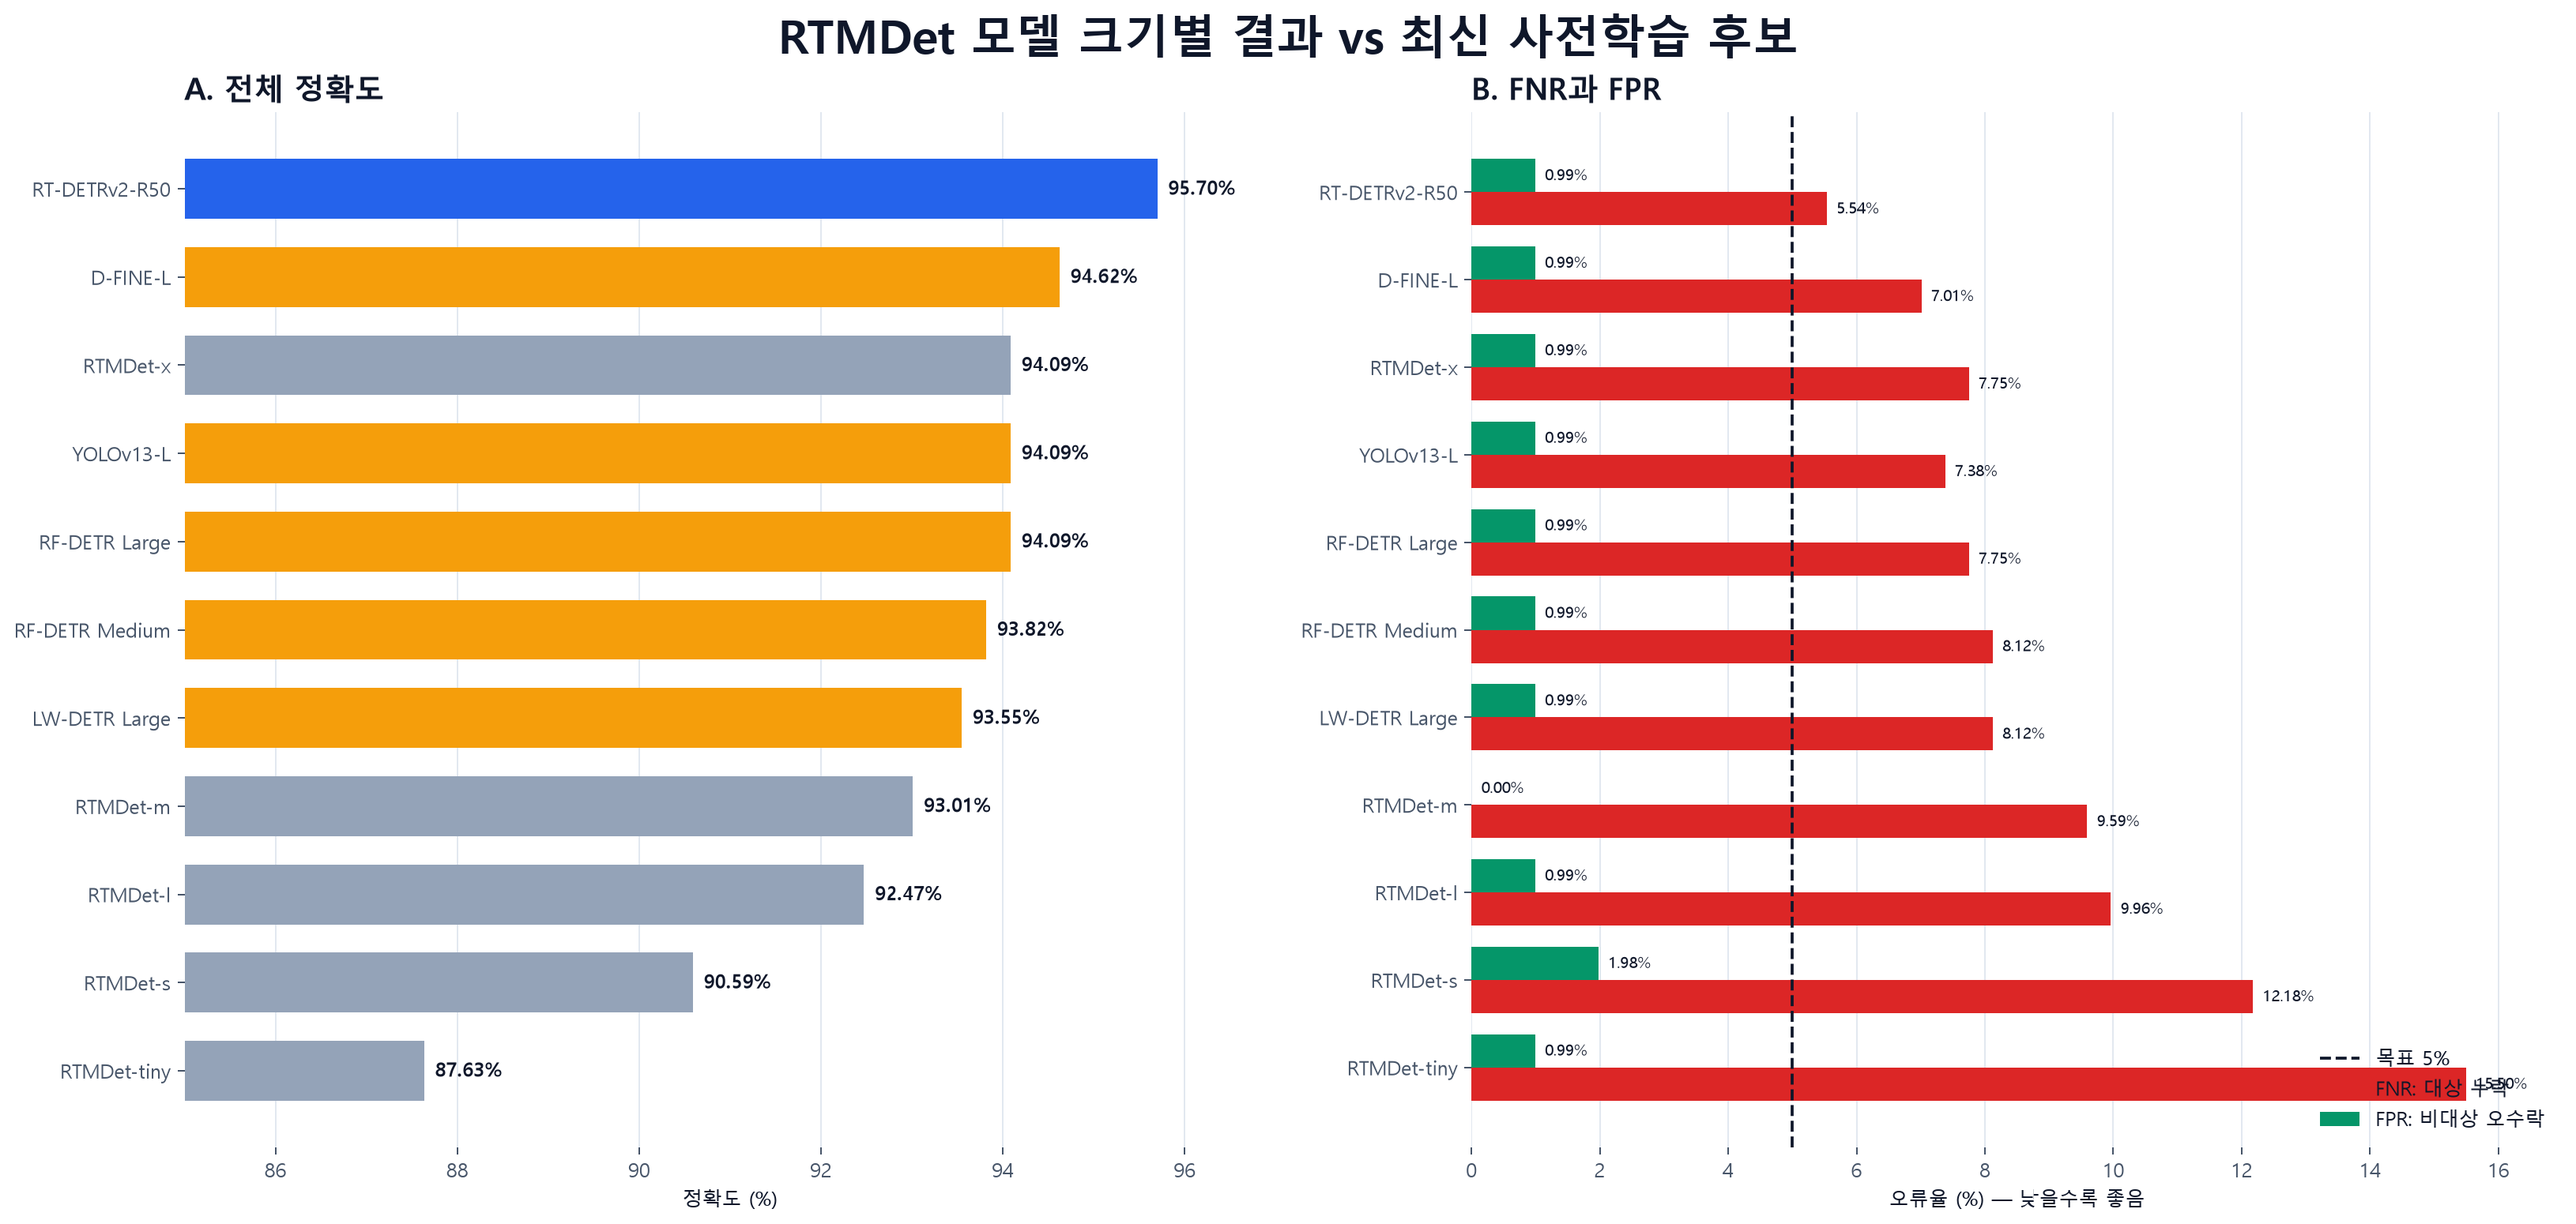
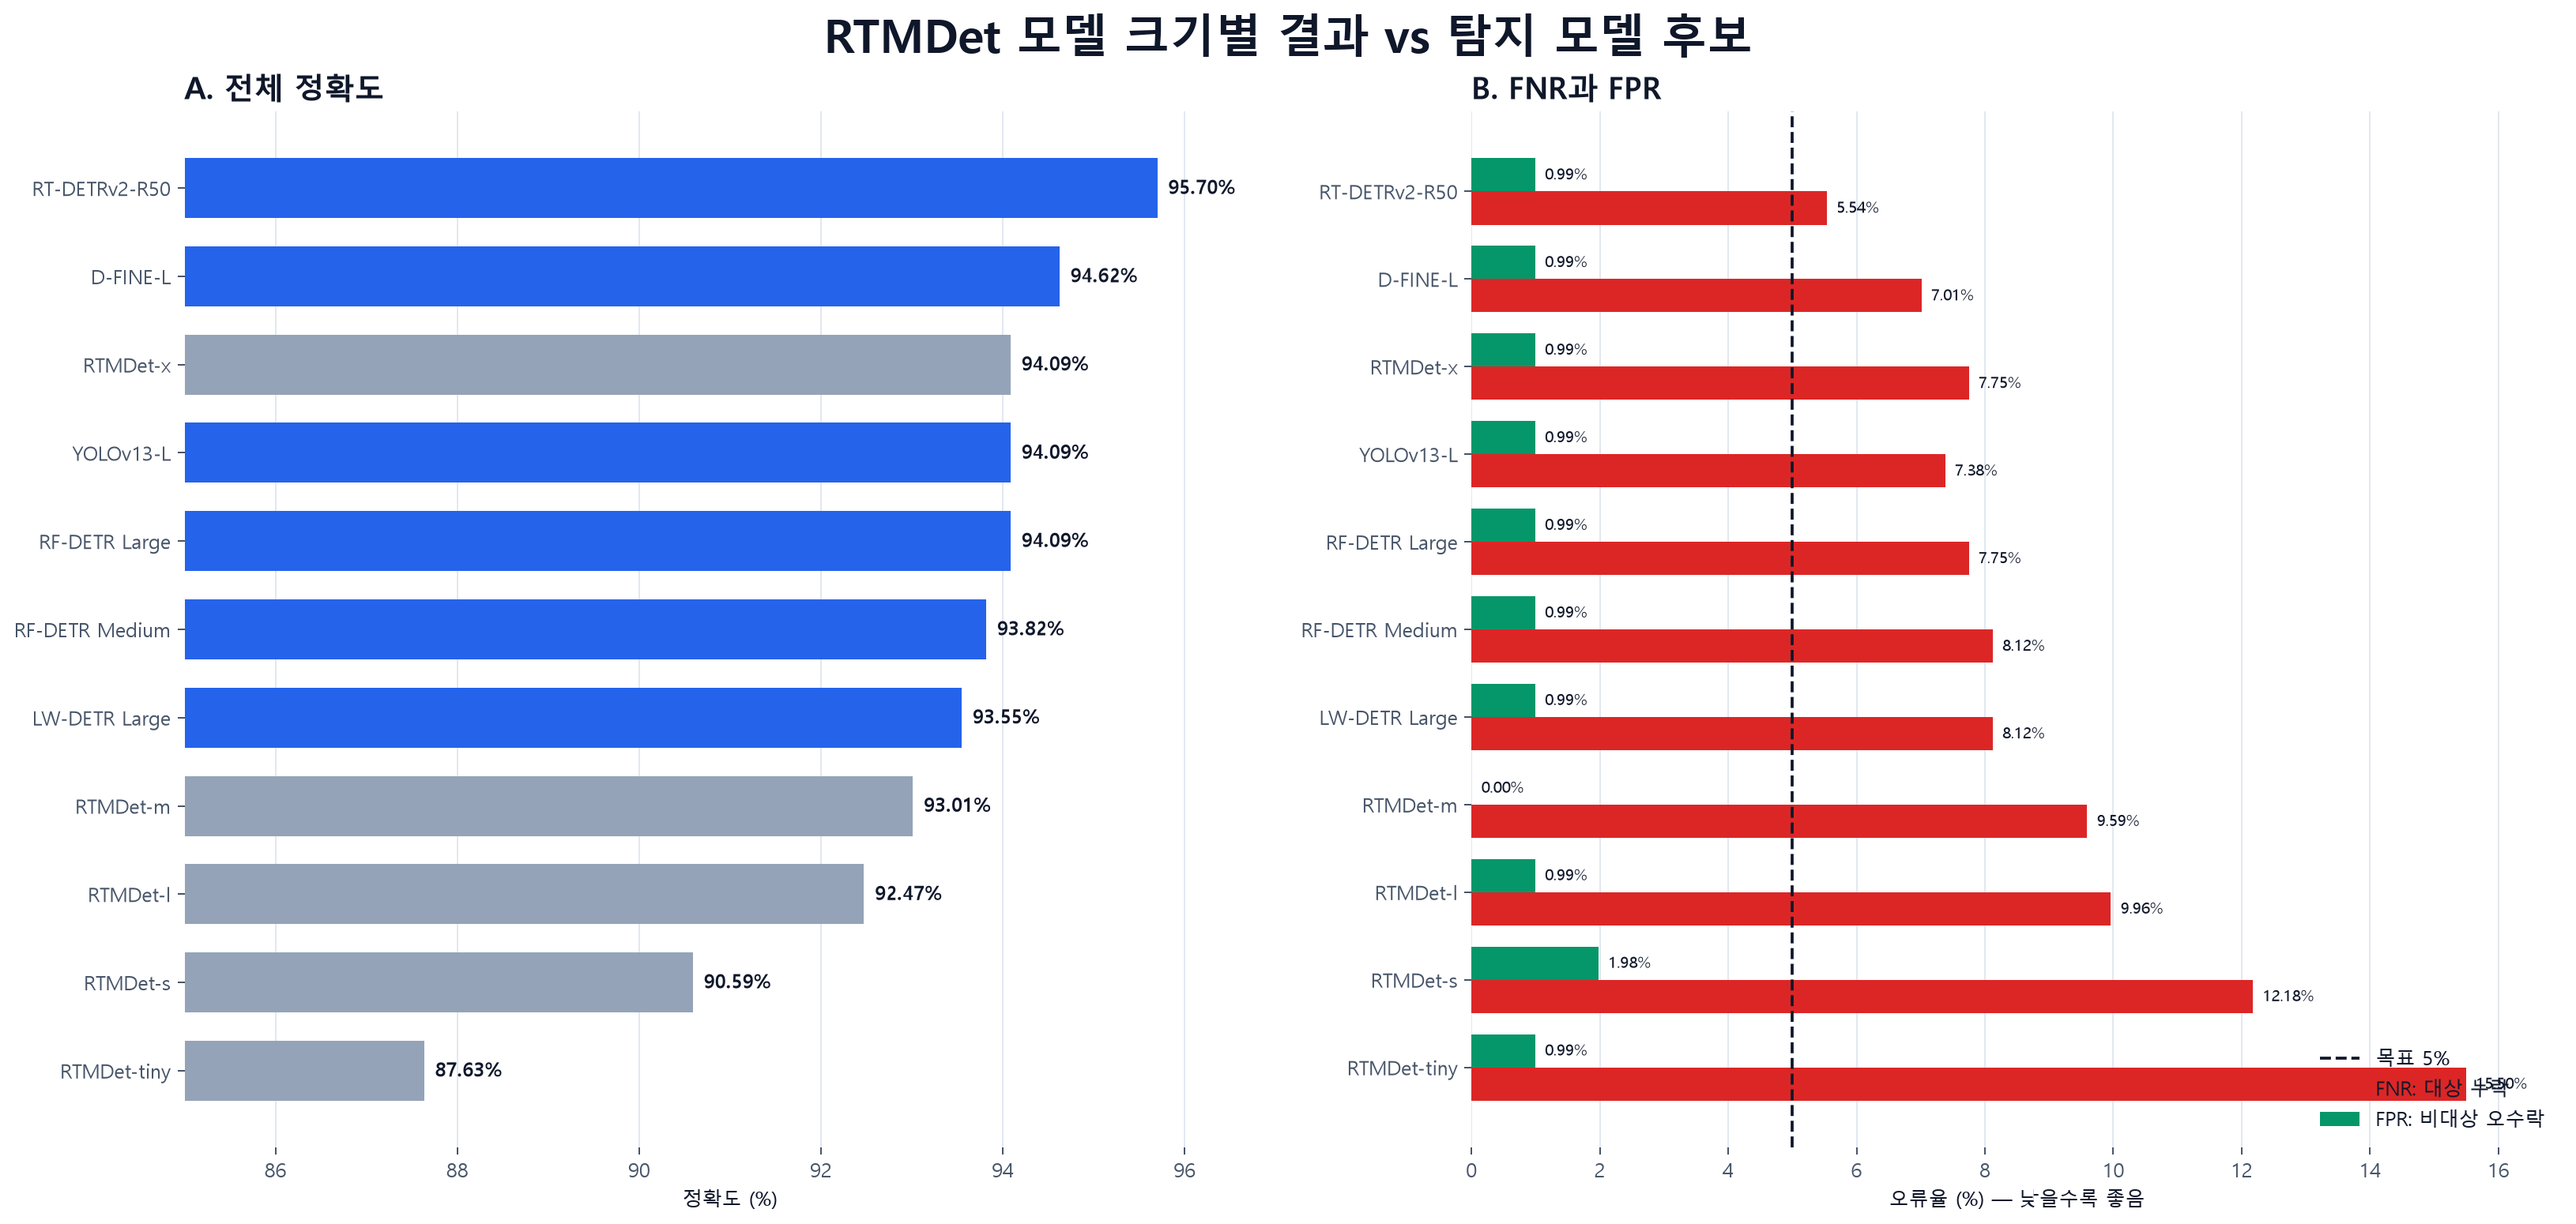
Group all evaluated detector candidates together

diff --git a/scripts/build_model_comparison_report.py b/scripts/build_model_comparison_report.py
@@ -17,14 +17,15 @@ OUTPUT = ROOT / "docs/reports/rtmdet-vs-latest"
 README_OUTPUT = ROOT / "README.md"
 
 RTMDET_MODELS = ["rtmdet-tiny", "rtmdet-s", "rtmdet-m", "rtmdet-l", "rtmdet-x"]
-LATEST_MODELS = [
+CANDIDATE_MODELS = [
+    "rtdetrv2-r50",
     "rf-detr-large",
     "dfine-l-obj2coco",
     "lw-detr-large",
     "rf-detr-medium",
     "yolov13l",
 ]
-DECISION_MODELS = ["rtdetrv2-r50", *LATEST_MODELS, *RTMDET_MODELS]
+DECISION_MODELS = [*CANDIDATE_MODELS, *RTMDET_MODELS]
 
 DISPLAY = {
     "rtdetrv2-r50": "RT-DETRv2-R50",
@@ -42,7 +43,6 @@ DISPLAY = {
 
 BLUE = "#2563EB"
 NAVY = "#0F172A"
-AMBER = "#F59E0B"
 SLATE = "#94A3B8"
 RED = "#DC2626"
 GREEN = "#059669"
@@ -75,11 +75,9 @@ def setup_plotting() -> None:
 
 
 def color_for(model: str) -> str:
-    if model == "rtdetrv2-r50":
-        return BLUE
     if model in RTMDET_MODELS:
         return SLATE
-    return AMBER
+    return BLUE
 
 
 def save_overview(rows: dict[str, dict[str, str]]) -> None:
@@ -90,7 +88,7 @@ def save_overview(rows: dict[str, dict[str, str]]) -> None:
     fprs = [pct(rows[m]["fpr"]) for m in ordered]
     fig, (ax_accuracy, ax_error) = plt.subplots(1, 2, figsize=(18, 8.5), layout="constrained")
 
-    fig.suptitle("RTMDet 모델 크기별 결과 vs 최신 사전학습 후보", fontsize=23, fontweight="bold")
+    fig.suptitle("RTMDet 모델 크기별 결과 vs 탐지 모델 후보", fontsize=23, fontweight="bold")
     bars = ax_accuracy.barh(names, accuracies, color=[color_for(m) for m in ordered], height=0.68)
     ax_accuracy.set_xlim(85, 97)
     ax_accuracy.set_xlabel("정확도 (%)")
@@ -280,12 +278,12 @@ def build_readme(rows: dict[str, dict[str, str]], class_rows: list[dict[str, obj
     }
 
     lines = [
-        "# RTMDet 모델 크기별 결과 vs 최신 탐지 모델",
+        "# RTMDet 모델 크기별 결과 vs 탐지 모델 후보",
         "",
-        "동일한 고유 이미지 372장에서 RTMDet 5종, 최신 후보 5종, RT-DETRv2-R50을 Top-1 기준으로 비교했습니다.",
+        "동일한 고유 이미지 372장에서 RTMDet 5종과 탐지 모델 후보 6종을 Top-1 기준으로 비교했습니다.",
         "",
-        "- 전체 정확도 최고값: **RT-DETRv2-R50 95.70%(356/372)**",
-        "- 최신 후보 5종 최고값: **D-FINE-L 94.62%(352/372)**",
+        "- 후보 6종 중 최고값: **RT-DETRv2-R50 95.70%(356/372)**",
+        "- RTMDet 5종 중 최고값: **RTMDet-x 94.09%(350/372)**",
         "- 모든 모델의 전체 FPR은 2% 이하였지만, 전체 FNR은 5% 목표를 충족하지 못했습니다.",
         "- 11개 모델 모두 `book` recall이 `computer` recall보다 낮았습니다.",
         "",
@@ -300,7 +298,7 @@ def build_readme(rows: dict[str, dict[str, str]], class_rows: list[dict[str, obj
     ]
     for rank, model in enumerate(selected, 1):
         row = rows[model]
-        group = "기존 후보" if model == "rtdetrv2-r50" else "RTMDet" if model in RTMDET_MODELS else "최신 후보"
+        group = "RTMDet" if model in RTMDET_MODELS else "후보"
         commercial = license_labels.get(row["commercial_status"], "확인 필요")
         lines.append(
             f"| {rank} | **{DISPLAY[model]}** | {group} | {row['correct']} | {pct(row['accuracy']):.2f}% | {pct(row['fnr']):.2f}% | {pct(row['fpr']):.2f}% | {float(row['latency_ms']):.1f} ms | {commercial} |"
@@ -308,7 +306,7 @@ def build_readme(rows: dict[str, dict[str, str]], class_rows: list[dict[str, obj
 
     lines += [
         "",
-        "¹ 이미지 디스크 읽기와 모델 로딩을 제외한 CPU 이미지당 평균입니다. RTMDet과 신규 후보는 실행 프레임워크와 반복 횟수가 달라 모델군 사이의 속도 배수로 해석하지 않습니다.",
+        "¹ 이미지 디스크 읽기와 모델 로딩을 제외한 CPU 이미지당 평균입니다. RTMDet과 후보 모델은 실행 프레임워크와 반복 횟수가 달라 모델군 사이의 속도 배수로 해석하지 않습니다.",
         "",
         "## CPU 레이턴시",
         "",
@@ -362,7 +360,7 @@ def build_readme(rows: dict[str, dict[str, str]], class_rows: list[dict[str, obj
         "",
         "- 결과는 고유 이미지 372장(`computer` 200, `book` 71, `other` 101)의 이미지 단위 Top-1 평가입니다.",
         "- 모델 선정에 사용한 데이터와 같은 평가 세트이므로 새로운 이미지에 대한 일반화 성능은 별도 검증이 필요합니다.",
-        "- ¹ RTMDet 5종의 지연은 같은 기존 실행 안에서 비교할 수 있습니다. 최신 후보는 프레임워크와 반복 횟수가 달라 RTMDet과의 속도 배수를 계산하지 않았습니다.",
+        "- ¹ RTMDet 5종의 지연은 같은 기존 실행 안에서 비교할 수 있습니다. 후보 모델은 프레임워크와 반복 횟수가 달라 RTMDet과의 속도 배수를 계산하지 않았습니다.",
         "- D-FINE-L과 LW-DETR은 Objects365 관련 가중치 권리를 확인해야 합니다. YOLOv13-L은 AGPL-3.0 준수 또는 별도 허가가 필요합니다.",
         "",
         "## 근거 자료",

diff --git a/README.md b/README.md
@@ -1,9 +1,9 @@
-# RTMDet 모델 크기별 결과 vs 최신 탐지 모델
+# RTMDet 모델 크기별 결과 vs 탐지 모델 후보
 
-동일한 고유 이미지 372장에서 RTMDet 5종, 최신 후보 5종, RT-DETRv2-R50을 Top-1 기준으로 비교했습니다.
+동일한 고유 이미지 372장에서 RTMDet 5종과 탐지 모델 후보 6종을 Top-1 기준으로 비교했습니다.
 
-- 전체 정확도 최고값: **RT-DETRv2-R50 95.70%(356/372)**
-- 최신 후보 5종 최고값: **D-FINE-L 94.62%(352/372)**
+- 후보 6종 중 최고값: **RT-DETRv2-R50 95.70%(356/372)**
+- RTMDet 5종 중 최고값: **RTMDet-x 94.09%(350/372)**
 - 모든 모델의 전체 FPR은 2% 이하였지만, 전체 FNR은 5% 목표를 충족하지 못했습니다.
 - 11개 모델 모두 `book` recall이 `computer` recall보다 낮았습니다.
 
@@ -15,19 +15,19 @@
 
 | 순위 | 모델 | 구분 | 정답/372 | 정확도 | FNR | FPR | CPU 레이턴시¹ | 상업 이용 조건 |
 |---:|---|---|---:|---:|---:|---:|---:|---|
-| 1 | **RT-DETRv2-R50** | 기존 후보 | 356 | 95.70% | 5.54% | 0.99% | 888.6 ms | Apache-2.0 계열 |
-| 2 | **D-FINE-L** | 최신 후보 | 352 | 94.62% | 7.01% | 0.99% | 1226.7 ms | Objects365 권리 확인 필요 |
-| 3 | **RF-DETR Large** | 최신 후보 | 350 | 94.09% | 7.75% | 0.99% | 1203.7 ms | Apache-2.0 계열 |
-| 4 | **YOLOv13-L** | 최신 후보 | 350 | 94.09% | 7.38% | 0.99% | 668.1 ms | AGPL-3.0/별도 허가 |
+| 1 | **RT-DETRv2-R50** | 후보 | 356 | 95.70% | 5.54% | 0.99% | 888.6 ms | Apache-2.0 계열 |
+| 2 | **D-FINE-L** | 후보 | 352 | 94.62% | 7.01% | 0.99% | 1226.7 ms | Objects365 권리 확인 필요 |
+| 3 | **RF-DETR Large** | 후보 | 350 | 94.09% | 7.75% | 0.99% | 1203.7 ms | Apache-2.0 계열 |
+| 4 | **YOLOv13-L** | 후보 | 350 | 94.09% | 7.38% | 0.99% | 668.1 ms | AGPL-3.0/별도 허가 |
 | 5 | **RTMDet-x** | RTMDet | 350 | 94.09% | 7.75% | 0.99% | 1346.7 ms | Apache-2.0 계열 |
-| 6 | **RF-DETR Medium** | 최신 후보 | 349 | 93.82% | 8.12% | 0.99% | 435.7 ms | Apache-2.0 계열 |
-| 7 | **LW-DETR Large** | 최신 후보 | 348 | 93.55% | 8.12% | 0.99% | 1331.8 ms | Objects365 권리 확인 필요 |
+| 6 | **RF-DETR Medium** | 후보 | 349 | 93.82% | 8.12% | 0.99% | 435.7 ms | Apache-2.0 계열 |
+| 7 | **LW-DETR Large** | 후보 | 348 | 93.55% | 8.12% | 0.99% | 1331.8 ms | Objects365 권리 확인 필요 |
 | 8 | **RTMDet-m** | RTMDet | 346 | 93.01% | 9.59% | 0.00% | 481.1 ms | Apache-2.0 계열 |
 | 9 | **RTMDet-l** | RTMDet | 344 | 92.47% | 9.96% | 0.99% | 835.9 ms | Apache-2.0 계열 |
 | 10 | **RTMDet-s** | RTMDet | 337 | 90.59% | 12.18% | 1.98% | 251.7 ms | Apache-2.0 계열 |
 | 11 | **RTMDet-tiny** | RTMDet | 326 | 87.63% | 15.50% | 0.99% | 176.0 ms | Apache-2.0 계열 |
 
-¹ 이미지 디스크 읽기와 모델 로딩을 제외한 CPU 이미지당 평균입니다. RTMDet과 신규 후보는 실행 프레임워크와 반복 횟수가 달라 모델군 사이의 속도 배수로 해석하지 않습니다.
+¹ 이미지 디스크 읽기와 모델 로딩을 제외한 CPU 이미지당 평균입니다. RTMDet과 후보 모델은 실행 프레임워크와 반복 횟수가 달라 모델군 사이의 속도 배수로 해석하지 않습니다.
 
 ## CPU 레이턴시
 
@@ -85,7 +85,7 @@
 
 - 결과는 고유 이미지 372장(`computer` 200, `book` 71, `other` 101)의 이미지 단위 Top-1 평가입니다.
 - 모델 선정에 사용한 데이터와 같은 평가 세트이므로 새로운 이미지에 대한 일반화 성능은 별도 검증이 필요합니다.
-- ¹ RTMDet 5종의 지연은 같은 기존 실행 안에서 비교할 수 있습니다. 최신 후보는 프레임워크와 반복 횟수가 달라 RTMDet과의 속도 배수를 계산하지 않았습니다.
+- ¹ RTMDet 5종의 지연은 같은 기존 실행 안에서 비교할 수 있습니다. 후보 모델은 프레임워크와 반복 횟수가 달라 RTMDet과의 속도 배수를 계산하지 않았습니다.
 - D-FINE-L과 LW-DETR은 Objects365 관련 가중치 권리를 확인해야 합니다. YOLOv13-L은 AGPL-3.0 준수 또는 별도 허가가 필요합니다.
 
 ## 근거 자료
